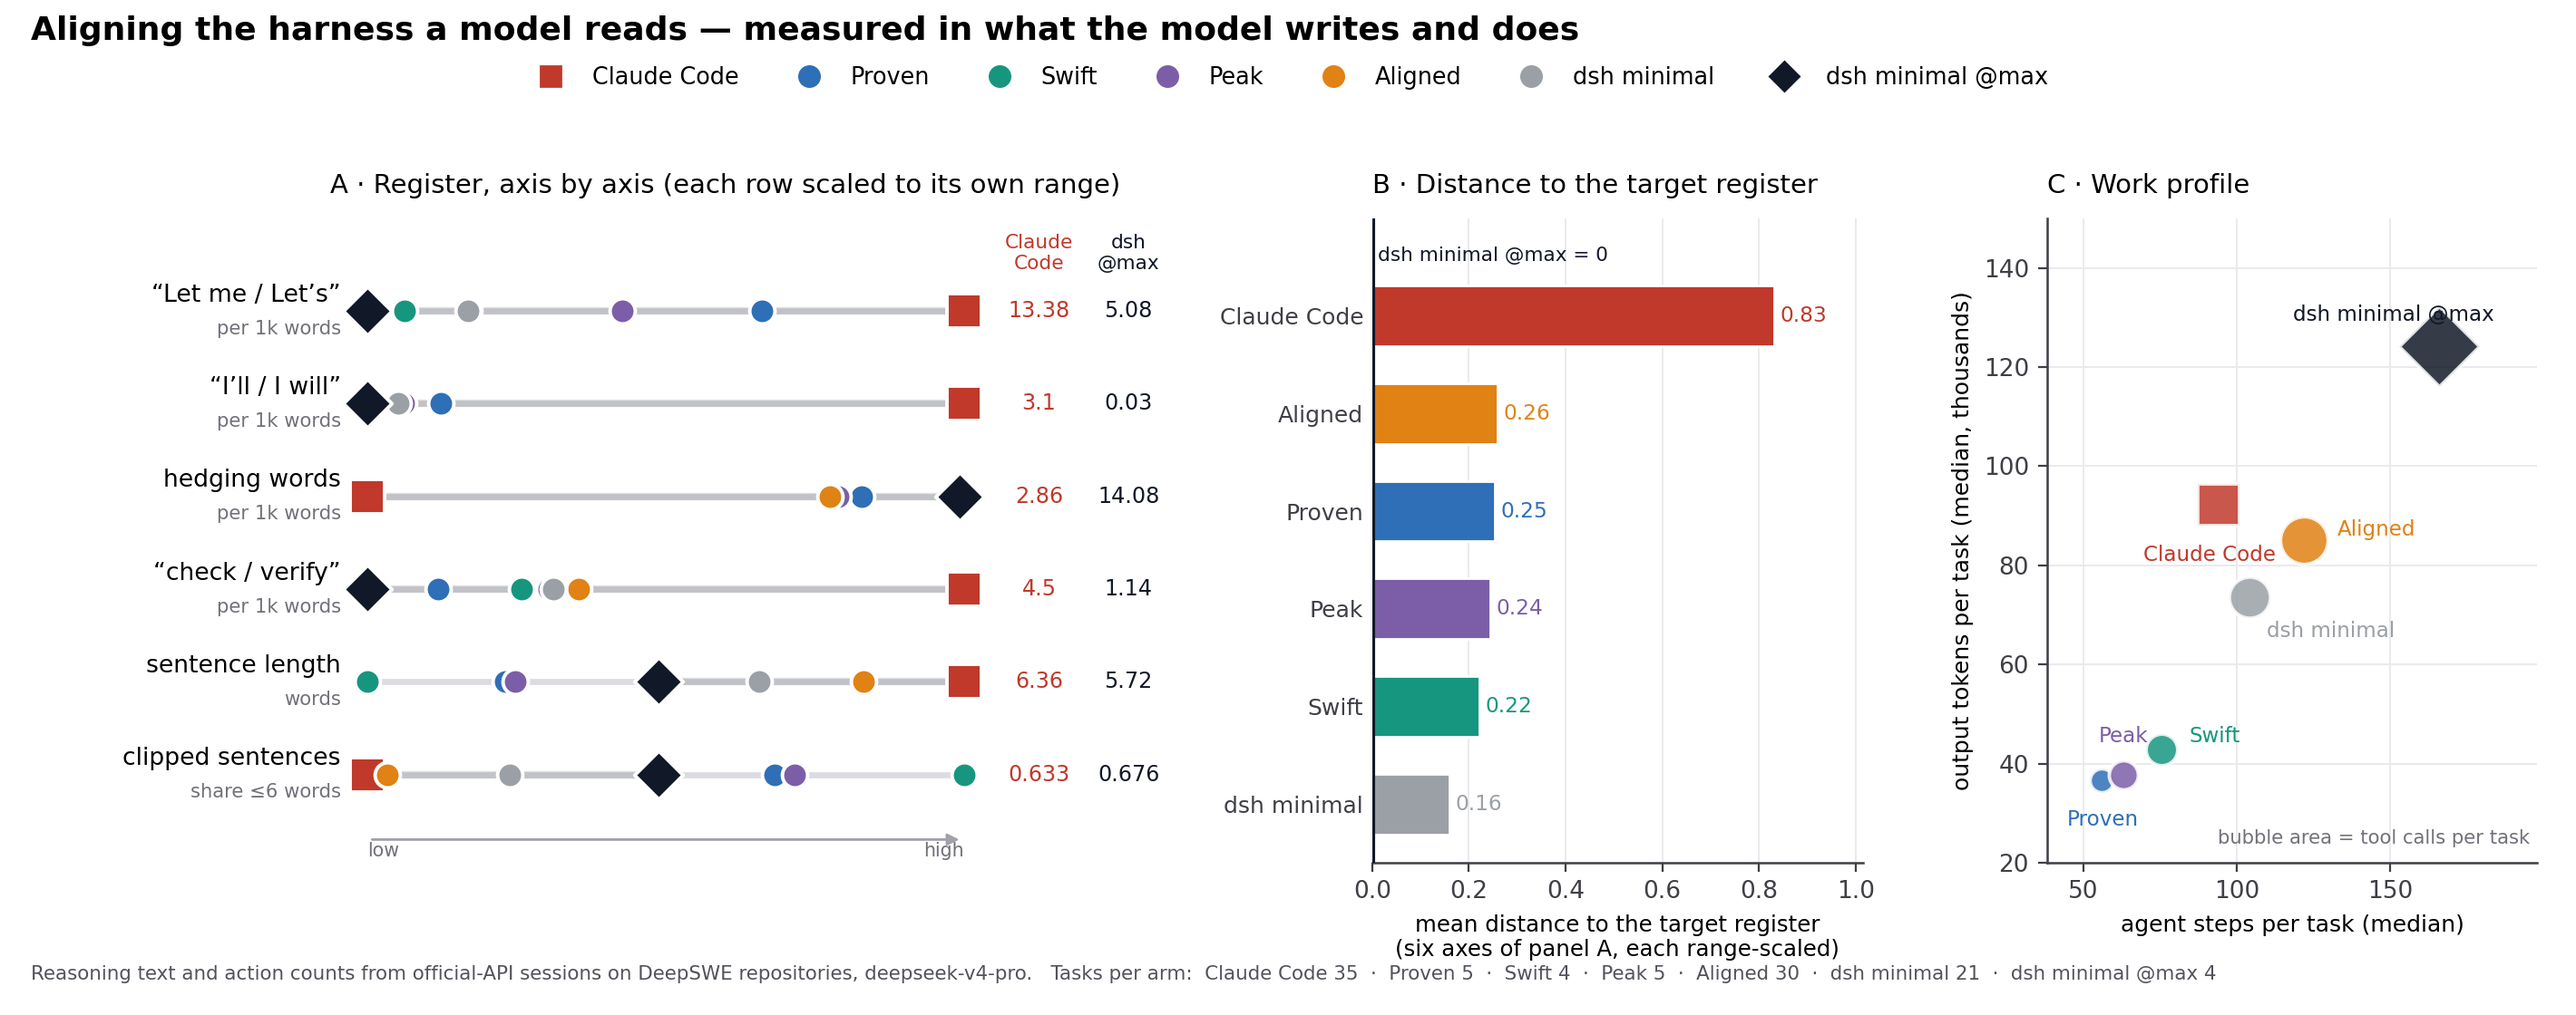
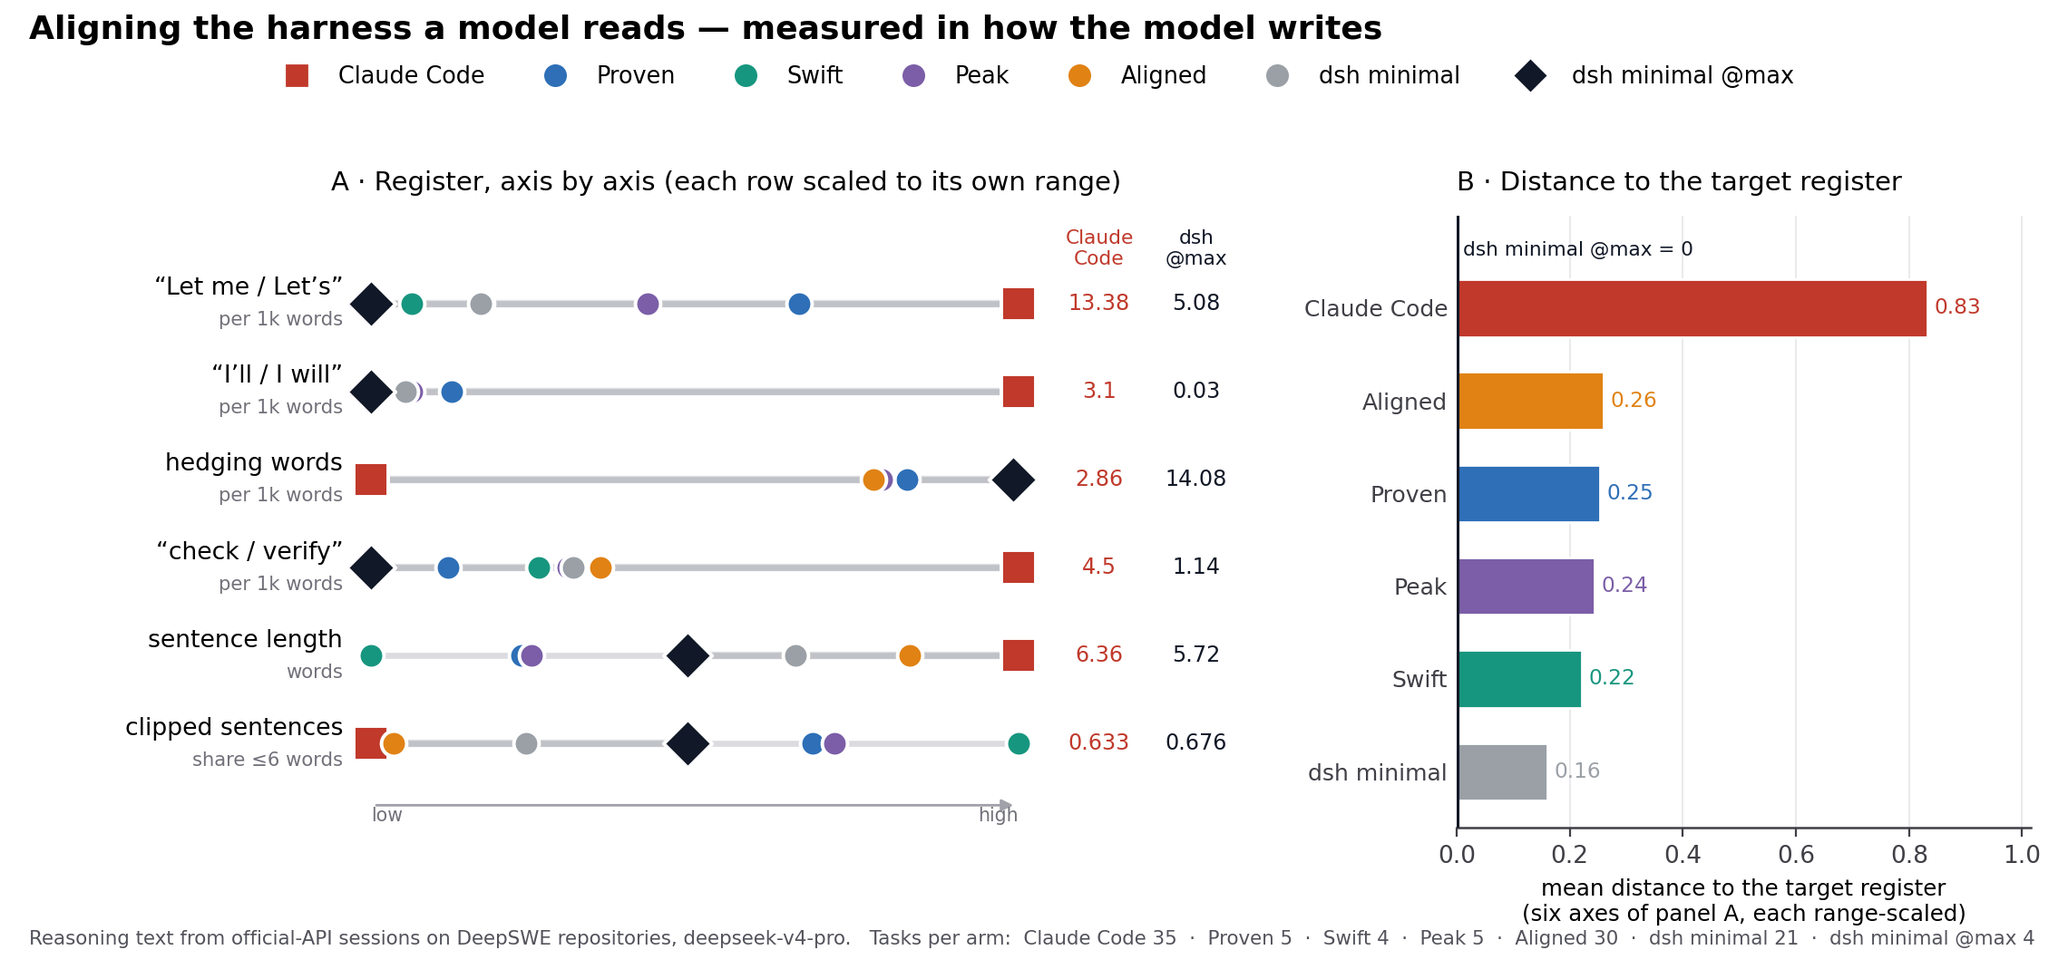
Drop the work-profile panel from the harness figure
The figure is now two panels: the six register axes with Claude Code and dsh-minimal@max as
anchors, and those axes collapsed into a single distance to the target register. The steps /
tokens / tool-calls panel is removed and the captions in both READMEs updated to match.

diff --git a/README.md b/README.md
@@ -70,11 +70,11 @@
 >
 > ![Harness alignment, measured in what the model writes and does](assets/fig-harness-alignment.png)
 >
-> <sub>Every number above is text the agents wrote or an action they took, on official-API sessions
-> over DeepSWE repositories. <b>A</b> — six style axes, Claude Code and dsh-minimal@max as the two
-> anchors. <b>B</b> — the same six axes collapsed into one distance: the tiers cut roughly 70 % of the
-> gap between how Claude Code writes and how the small harness writes. <b>C</b> — steps, output
-> tokens and tool calls per task.</sub>
+> <sub>Every number above is counted from reasoning the agents actually wrote, on official-API
+> sessions over DeepSWE repositories. <b>A</b> — six style axes, with Claude Code and
+> dsh-minimal@max as the two anchors. <b>B</b> — the same six axes collapsed into one distance:
+> the tiers close roughly 70 % of the gap between how Claude Code writes and how the small
+> harness writes.</sub>
 >
 > This release ships three beta tiers — **Proven**, **Swift**, **Peak** — plus a hidden fourth,
 > **Aligned** (`cct -e aligned`), carrying the newest profile the search produced.

diff --git a/README_ZH.md b/README_ZH.md
@@ -65,10 +65,9 @@
 >
 > ![harness 对齐,量的是模型写了什么、做了什么](assets/fig-harness-alignment.png)
 >
-> <sub>图中每一个数都是 agent 实际写出的文字或实际做过的动作,来自官方 API 在 DeepSWE 仓库上的会话。
+> <sub>图中每一个数都是从 agent 实际写出的推理文字里数出来的,来自官方 API 在 DeepSWE 仓库上的会话。
 > <b>A</b> —— 六条风格轴,两端锚点是 Claude Code 与 dsh 极简版 @max。<b>B</b> —— 六轴压成一个距离:
-> 三个档把"Claude Code 的写法"到"小 harness 的写法"之间的差距砍掉约 70%。<b>C</b> —— 每题的步数、
-> 输出 token 与工具调用次数。</sub>
+> 三个档把"Claude Code 的写法"到"小 harness 的写法"之间的差距砍掉约 70%。</sub>
 >
 > 这一版发布三个 beta 档——**Proven**、**Swift**、**Peak**——外加一个隐藏的第四档 **Aligned**
 > (`cct -e aligned`),装的是搜索最新产出的方案。
